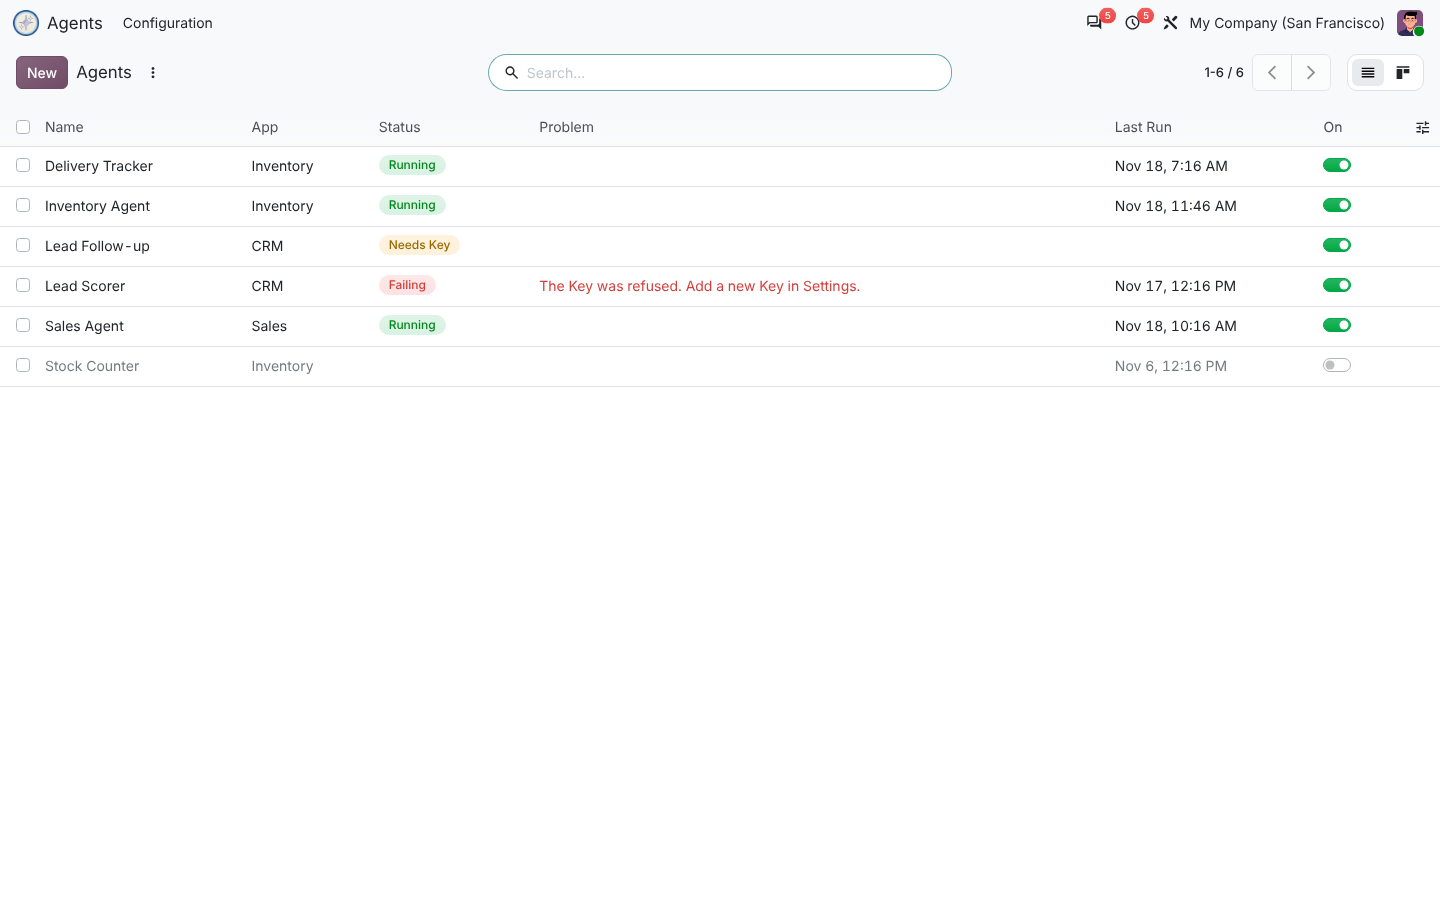
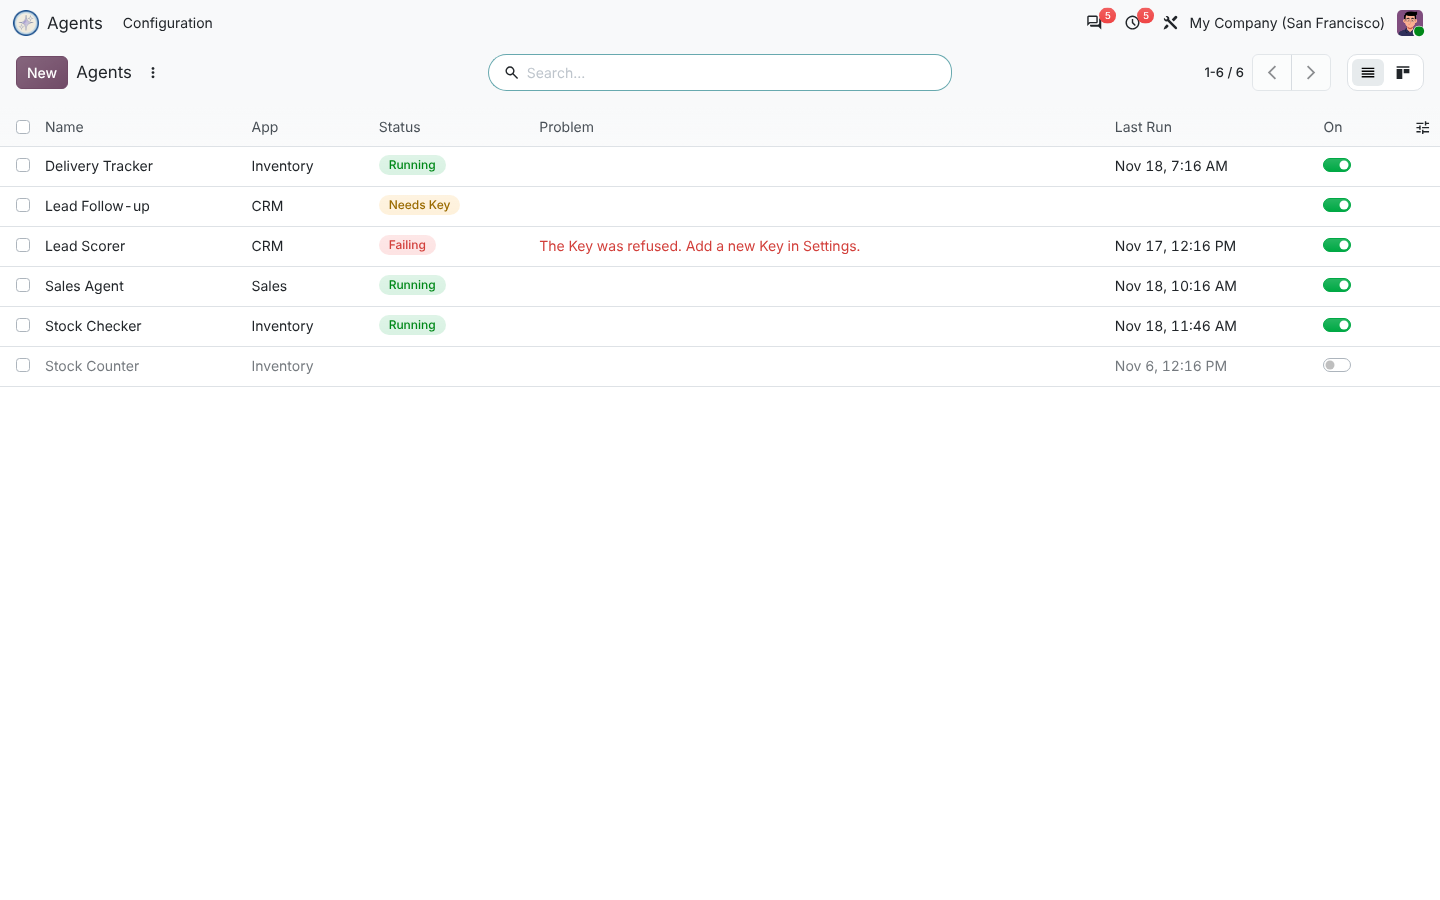
Odoo UI skill phase 6, round 4 prep: empty state names the state; rare task not gated; unambiguous demo name
Claude-Session: https://claude.ai/code/session_016iWLdDriN1AhULcqk5KQPk

diff --git a/docs/odoo-ui-skill/validation/score.py b/docs/odoo-ui-skill/validation/score.py
@@ -55,6 +55,8 @@ def main():
         if key not in targets:
             continue
         box = targets[key]
+        if box.get("gated") is False:
+            continue  # rare task: reported, not gated (SPEC.md)
         fails, warns, taps = [], [], []
         for i, run in enumerate(runs):
             if key not in run:

diff --git a/skills/pantalytics-odoo-ui/SKILL.md b/skills/pantalytics-odoo-ui/SKILL.md
@@ -55,7 +55,7 @@ components. Odoo's colours, font, elevation and widgets stay (proof:
 | A flow with checks | form, `target="current"`; the crumb is the back link | |
 | Feedback on an action | the changed value on the record where the eye is; a notification with a type (`success`/`warning`/`danger`) only when nothing visible changes | never `info`; an output worth reading is a field on the record, not a toast |
 | A problem with this record | inline `alert` with `invisible=` | gone when solved; <= 1 per form |
-| Empty | action help: one `o_view_nocontent_smiling_face` line, verb + thing | no second paragraph, no button in it, no `sample="1"`: the lazy user read the faded sample rows as real records |
+| Empty | action help: one line that names the state, `<p>No agents yet</p>`; New is the action | no illustration, no imperative ("Add your first agent" looked like a button and was tapped), no second paragraph, no `sample="1"` (sample rows read as real records) |
 | Settings | `<app>` > `<block>` > `<setting id=...>` | 1 app, <= 3 blocks, <= 6 settings per block, help <= 12 words. A block is named after what it controls ("Access"), never after the app |
 | An app that needs pairing | setup checklist inside `<block>`/`<setting>`: one row per step, status, one action | later steps hidden until earlier ones work |
 | Advanced options | last notebook page, `groups="base.group_no_one"`, or a small `priority=100` form | |
@@ -110,9 +110,9 @@ The smallest set that follows the rules (Odoo 18, 19 and 20; icons differ, see V
   </templates>
 </kanban>
 
-<!-- Empty state: one line, verb + thing -->
+<!-- Empty state: one line that names the state; New is the action -->
 <field name="help" type="html">
-  <p class="o_view_nocontent_smiling_face">Add your first agent</p>
+  <p>No agents yet</p>
 </field>
 ```
 

diff --git a/docs/odoo-ui-skill/validation/SPEC.md b/docs/odoo-ui-skill/validation/SPEC.md
@@ -44,9 +44,9 @@ One line each, no other explanation.
 2. "Which agent is broken?" (from the list)
 3. "Why is it broken?" (from the list)
 4. "Run the Sales agent now."
-5. "Turn the Inventory agent off."
+5. "Turn off the Stock Checker." (round 4; was "Turn the Inventory agent off.", ambiguous with three agents in the Inventory app)
 6. "Let agents write in Odoo." (Settings)
-7. "Test an agent on a quotation." (round 2: Run and Test merged into one Run Agent button)
+7. "Test an agent on a quotation." Rare task: lives in the quotation's action menu and is not gated (three rounds: every hidden place is lost by a lazy user; a phone shows one header button). Its menu and dialog steps are gated.
 8. "Start with agents." (empty database)
 
 Each at 1440 x 900 and 390 x 844, on Odoo 19 and 20.
